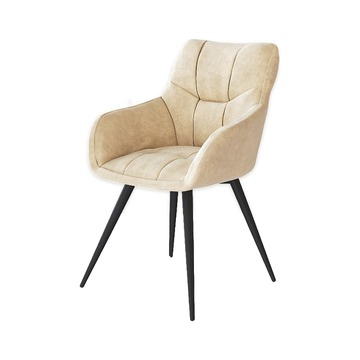
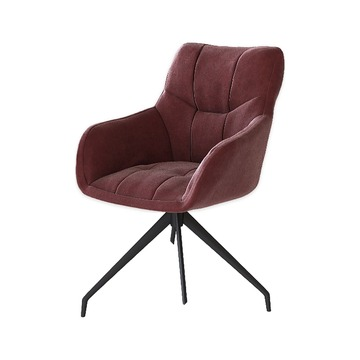
Обновление каталога

Changed region(s): [[0.1833, 0.0917, 0.7944, 0.8861]]

diff --git a/index.html b/index.html
@@ -466,7 +466,7 @@ img { display: block; max-width: 100%; }
 
     function buildHighlights() {
         var cats = uniq(products.map(function (p) { return p.category; }));
-        var HL_PHOTO = {"Диваны": "brand/hl-divany.jpg?v=a207bafe", "Кровати": "brand/hl-krovati.jpg?v=1caef03e", "Матрасы": "brand/hl-matrasy.jpg?v=cca1bbd8", "Кресла": "brand/hl-kresla.jpg?v=ae007c23", "Столы": "brand/hl-stoly.jpg?v=55e1fba3", "Стулья": "brand/hl-stulya.jpg?v=e51ddaab", "Малые формы": "brand/hl-malye.jpg?v=d4b4d17b", "Тумбы": "brand/hl-tumby.jpg?v=50da181b", "Пуфы": "brand/hl-pufy.jpg?v=4454d18a"};  // круги: tools/hl_circles.py (выбор Рината 23.10, без теней, модель целиком)
+        var HL_PHOTO = {"Диваны": "brand/hl-divany.jpg?v=a207bafe", "Кровати": "brand/hl-krovati.jpg?v=1caef03e", "Матрасы": "brand/hl-matrasy.jpg?v=cca1bbd8", "Кресла": "brand/hl-kresla.jpg?v=ae007c23", "Столы": "brand/hl-stoly.jpg?v=55e1fba3", "Стулья": "brand/hl-stulya.jpg?v=56cb1a9b", "Малые формы": "brand/hl-malye.jpg?v=d4b4d17b", "Тумбы": "brand/hl-tumby.jpg?v=50da181b", "Пуфы": "brand/hl-pufy.jpg?v=4454d18a"};  // круги: tools/hl_circles.py (выбор Рината 23.10, без теней, модель целиком)
         $("highlights").innerHTML = cats.map(function (c) {
             var inCat = products.filter(function (x) { return x.category === c; }), photo = "";
             inCat.some(function (x) { return x.photos.some(function (f) { return f.indexOf("/white/") > -1 && (photo = f); }); });
